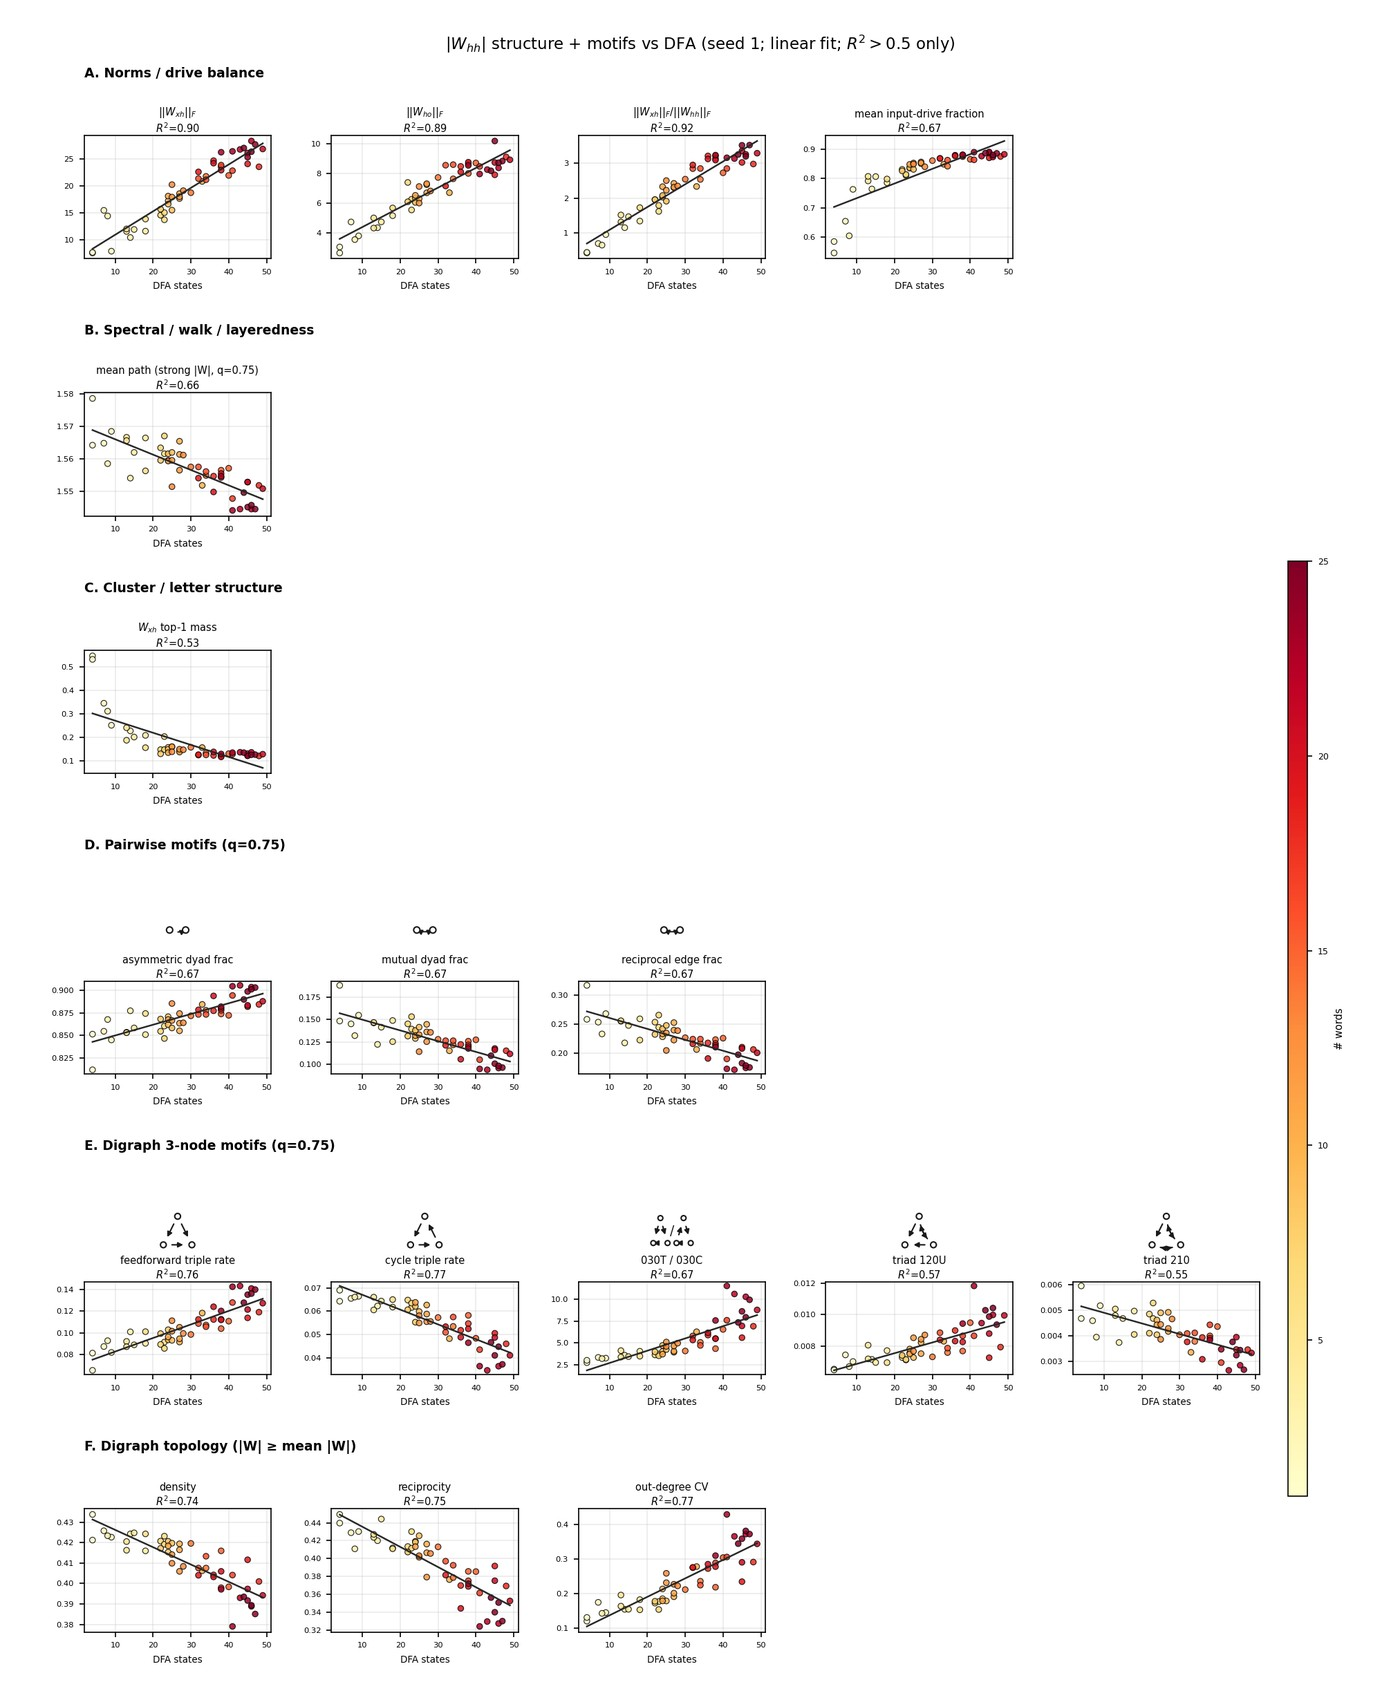
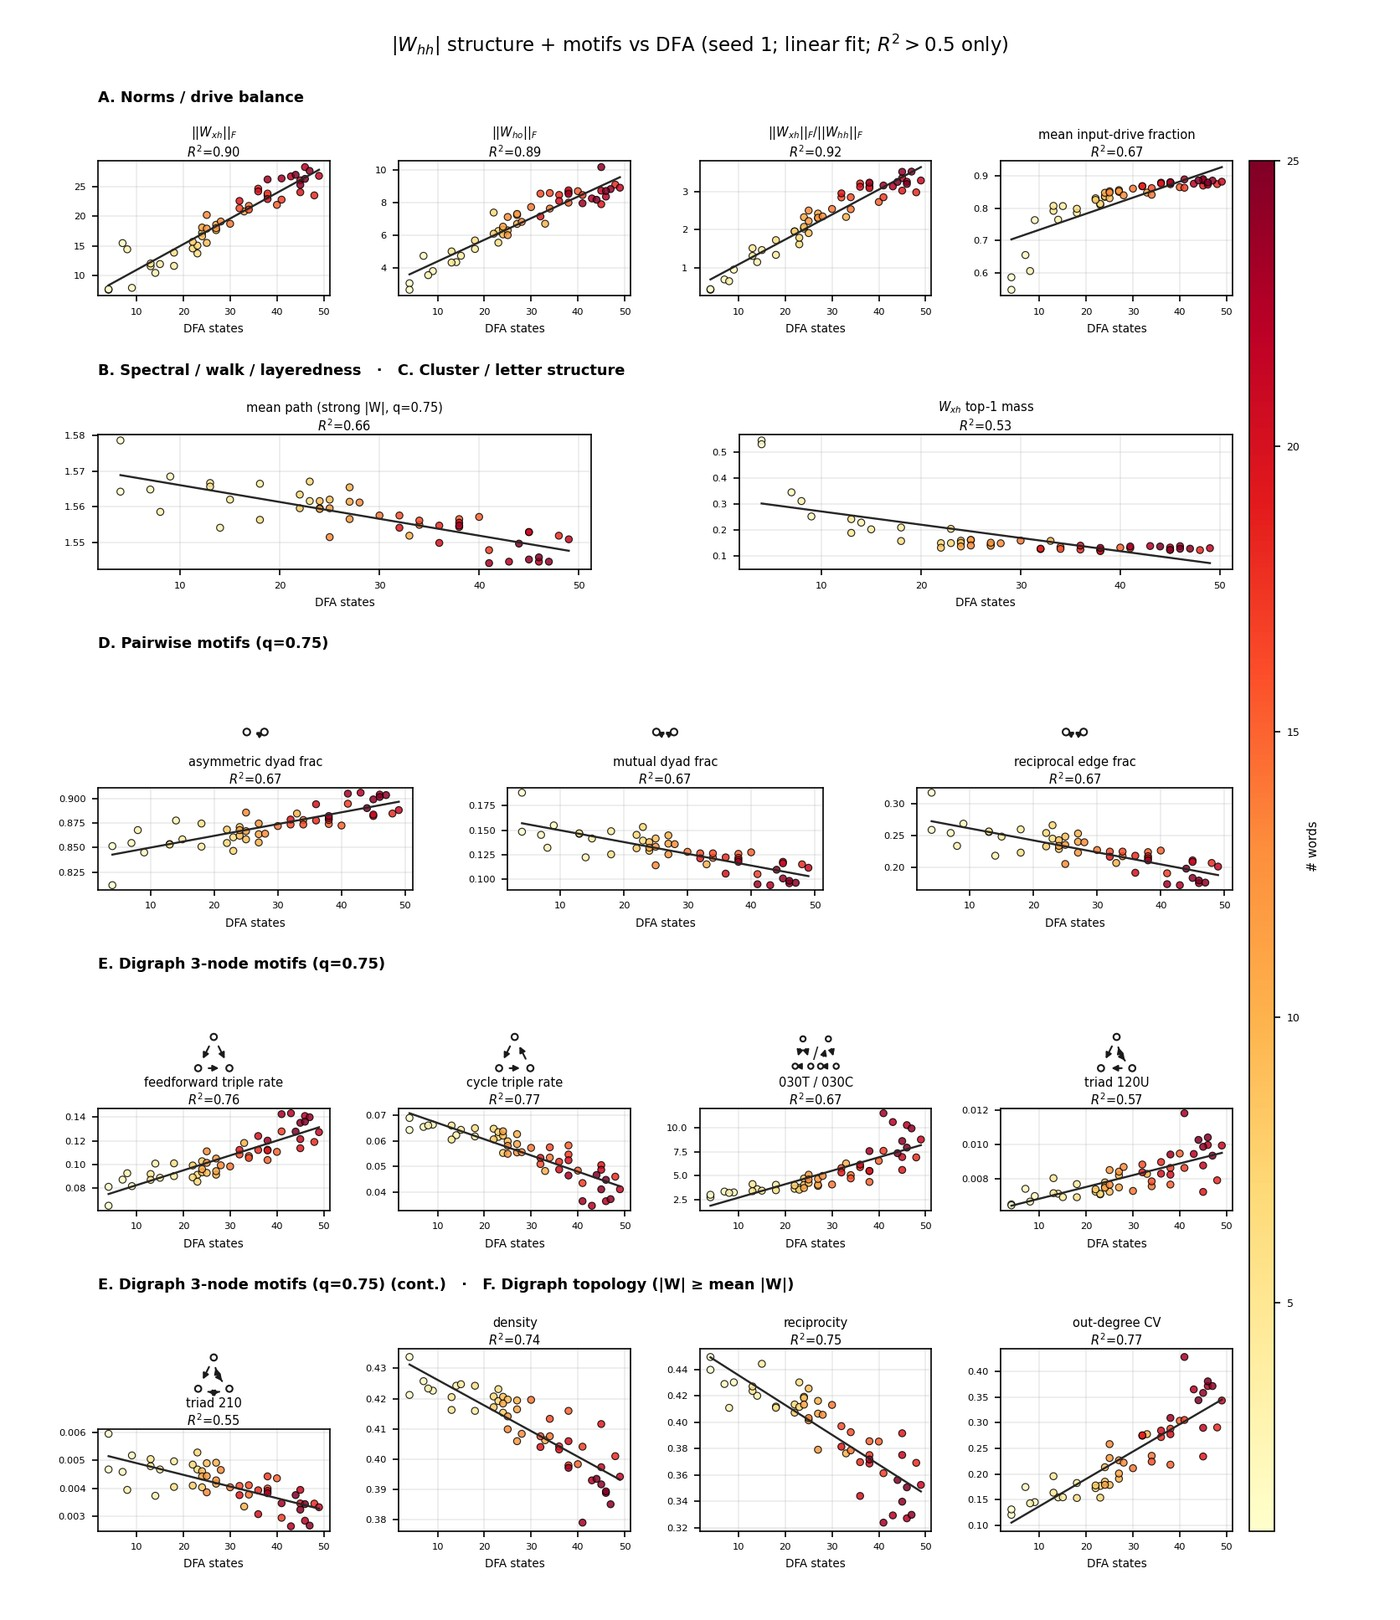
Fix Fig 18-19 layout: pack motif panels without blank cells and clear title overlap.

diff --git a/viz/compare/mixed_dfa_viz.py b/viz/compare/mixed_dfa_viz.py
@@ -1126,15 +1126,15 @@ def plot_mixed_dfa_weight_matrices_by_dfa(
         model = load_model_for_viz(str(checkpoint_path(task, model_type, seed=seed)), model_type)
         w_in_f, w_rec_f, _w_out_f, _dale = weights_for_plot(model)
         order_f = _cluster_unit_order(w_in_f, w_rec_f)
-        label = f"DFA={n_dfa}\n{n_words}w"
+        label = f"DFA={n_dfa} · {n_words}w"
         finals.append((label, w_in_f[order_f].T, w_rec_f[np.ix_(order_f, order_f)]))
 
     n_cols = 1 + len(finals)
     n_met = len(_WEIGHT_FIGURE_METRICS)
-    fig = plt.figure(figsize=(1.55 * n_cols + 0.85, 6.35))
+    fig = plt.figure(figsize=(1.55 * n_cols + 0.85, 6.75))
     outer = fig.add_gridspec(
-        2, 1, height_ratios=[2.55, 1.15], hspace=0.32,
-        left=0.08, right=0.90, top=0.93, bottom=0.07,
+        2, 1, height_ratios=[2.55, 1.15], hspace=0.28,
+        left=0.08, right=0.90, top=0.84, bottom=0.07,
     )
     gs_mat = outer[0].subgridspec(
         3, n_cols, height_ratios=[0.55, 1.0, 0.58], wspace=0.22, hspace=0.38,
@@ -1146,7 +1146,7 @@ def plot_mixed_dfa_weight_matrices_by_dfa(
 
     xh_panels = [init_xh] + [xh for _lab, xh, _hh in finals]
     hh_panels = [init_hh] + [hh for _lab, _xh, hh in finals]
-    col_titles = ["Init"] + [lab for lab, *_ in finals]
+    col_titles = ["Init"] + [lab.replace("\n", " · ") for lab, *_ in finals]
     row_panels = (xh_panels, hh_panels)
     row_ylabels = (r"$W_{xh}$", r"$W_{hh}$")
     # Avoid red/blue (reserved for signed weight heatmaps / E–I).
@@ -1165,7 +1165,7 @@ def plot_mixed_dfa_weight_matrices_by_dfa(
                 interpolation="nearest", origin="lower",
             )
             if row == 0:
-                ax.set_title(col_titles[col], fontsize=7, pad=6)
+                ax.set_title(col_titles[col], fontsize=6.5, pad=3)
             ax.text(
                 0.97, 0.97, f"±{vmax:.2g}",
                 transform=ax.transAxes, ha="right", va="top",
@@ -1287,7 +1287,7 @@ def plot_mixed_dfa_weight_matrices_by_dfa(
     fig.suptitle(
         rf"Weight structure by DFA size (seed {seed})",
         fontsize=10,
-        y=0.98,
+        y=0.97,
     )
     out = sweep_figures_dir(COMPARISON_NAME) / outfile
     save_figure(fig, out, dpi=150)
@@ -1544,49 +1544,68 @@ def plot_mixed_dfa_weight_graph_metrics_vs_dfa(
             return True
         return bool(np.isfinite(r2) and r2 > min_r2)
 
-    n_cols = 5
-    metric_rows: list[list[tuple[str, str, str]]] = []
-    banners_before: list[str | None] = []
+    n_wrap = 4
+    sections_kept: list[tuple[str, list[tuple[str, str, str]]]] = []
     for section_title, metrics in _WEIGHT_METRIC_SECTIONS:
         kept = [(bag, key, title) for bag, key, title in metrics if _keep(bag, key)]
-        if not kept:
-            continue
-        pending_banner: str | None = section_title
-        cur: list[tuple[str, str, str]] = []
-        for bag, key, title in kept:
-            cur.append((bag, key, title))
-            if len(cur) == n_cols:
-                metric_rows.append(cur)
-                banners_before.append(pending_banner)
-                cur = []
-                pending_banner = None
-        if cur:
-            metric_rows.append(cur)
-            banners_before.append(pending_banner)
+        if kept:
+            sections_kept.append((section_title, kept))
 
-    if not metric_rows:
+    if not sections_kept:
         raise ValueError(f"no weight-graph panels passed min_r2={min_r2}")
 
-    height_ratios: list[float] = []
-    gs_map: list[tuple[str, int]] = []
-    for i, banner in enumerate(banners_before):
-        if banner:
-            height_ratios.append(0.28)
-            gs_map.append(("banner", i))
-        # Extra height when this row has digraph-motif schematics above the scatter.
-        has_schema = any(
-            key in _MOTIF_SCHEMA_KEYS for _, key, _ in metric_rows[i]
-        )
-        height_ratios.append(1.35 if has_schema else 1.0)
-        gs_map.append(("metrics", i))
+    # Pack rows without empty cells: full n_wrap chunks stay alone; short
+    # leftovers from consecutive sections share a row when they fit.
+    # Each row_plan entry: ("banner", title) or ("metrics", (panels, has_schema)).
+    row_plan: list[tuple[str, Any]] = []
+    pending: list[tuple[str, list[tuple[str, str, str]]]] = []
 
-    n_banner = sum(1 for b in banners_before if b)
+    def _pending_n() -> int:
+        return sum(len(m) for _, m in pending)
+
+    def _flush_pending() -> None:
+        if not pending:
+            return
+        titles = "   ·   ".join(t for t, _ in pending if t)
+        panels = [p for _, mets in pending for p in mets]
+        has_schema = any(key in _MOTIF_SCHEMA_KEYS for _, key, _ in panels)
+        if titles:
+            row_plan.append(("banner", titles))
+        row_plan.append(("metrics", (panels, has_schema)))
+        pending.clear()
+
+    for section_title, kept in sections_kept:
+        n_full = len(kept) // n_wrap
+        rem = kept[n_full * n_wrap :]
+        if n_full:
+            _flush_pending()
+            row_plan.append(("banner", section_title))
+            for i in range(n_full):
+                chunk = kept[i * n_wrap : (i + 1) * n_wrap]
+                has_schema = any(key in _MOTIF_SCHEMA_KEYS for _, key, _ in chunk)
+                row_plan.append(("metrics", (chunk, has_schema)))
+            if rem:
+                pending.append((f"{section_title} (cont.)", rem))
+            continue
+        if _pending_n() + len(kept) <= n_wrap:
+            pending.append((section_title, kept))
+        else:
+            _flush_pending()
+            pending.append((section_title, kept))
+    _flush_pending()
+
+    height_ratios = [
+        0.28 if kind == "banner" else (1.35 if payload[1] else 1.0)
+        for kind, payload in row_plan
+    ]
+    n_metric_rows = sum(1 for kind, _ in row_plan if kind == "metrics")
+    n_banner = sum(1 for kind, _ in row_plan if kind == "banner")
     fig = plt.figure(
-        figsize=(2.5 * n_cols + 1.0, 2.15 * len(metric_rows) + 0.4 * n_banner + 1.1),
+        figsize=(2.55 * n_wrap + 0.95, 2.05 * n_metric_rows + 0.36 * n_banner + 0.85),
     )
     gs = fig.add_gridspec(
-        len(height_ratios), n_cols,
-        height_ratios=height_ratios, hspace=0.58, wspace=0.32,
+        len(height_ratios), 1,
+        height_ratios=height_ratios, hspace=0.50,
     )
 
     words_cmap = plt.get_cmap("YlOrRd")
@@ -1594,25 +1613,31 @@ def plot_mixed_dfa_weight_graph_metrics_vs_dfa(
 
     from viz.weight_structure import draw_digraph_motif_schema
 
-    for gs_i, (kind, row_i) in enumerate(gs_map):
+    scatter_axes: list[Any] = []
+    for gs_i, (kind, payload) in enumerate(row_plan):
         if kind == "banner":
-            axb = fig.add_subplot(gs[gs_i, :])
+            axb = fig.add_subplot(gs[gs_i, 0])
             axb.set_axis_off()
             axb.text(
-                0.0, 0.35, banners_before[int(row_i)],
-                fontsize=9, fontweight="bold", va="center",
+                0.0, 0.35, str(payload),
+                fontsize=8.5, fontweight="bold", va="center",
             )
             continue
-        metrics = metric_rows[int(row_i)]
+
+        metrics, _has_schema = payload
+        n_here = len(metrics)
+        # Panels fill the row (no spacer columns / blank axes).
+        inner = gs[gs_i, 0].subgridspec(1, n_here, wspace=0.30)
         for c, (bag, key, title) in enumerate(metrics):
-            cell = gs[gs_i, c]
+            cell = inner[0, c]
             if key in _MOTIF_SCHEMA_KEYS:
-                inner = cell.subgridspec(2, 1, height_ratios=[0.48, 1.0], hspace=0.42)
-                ax_schem = fig.add_subplot(inner[0])
-                ax = fig.add_subplot(inner[1])
+                nested = cell.subgridspec(2, 1, height_ratios=[0.48, 1.0], hspace=0.42)
+                ax_schem = fig.add_subplot(nested[0])
+                ax = fig.add_subplot(nested[1])
                 draw_digraph_motif_schema(ax_schem, key)
             else:
                 ax = fig.add_subplot(cell)
+            scatter_axes.append(ax)
             x, y, ns = _series(bag, key)
             if x.size:
                 ax.scatter(
@@ -1630,15 +1655,6 @@ def plot_mixed_dfa_weight_graph_metrics_vs_dfa(
             ax.set_xlabel("DFA states", fontsize=6.5)
             ax.grid(True, alpha=0.25)
             ax.tick_params(labelsize=5.5)
-        for c in range(len(metrics), n_cols):
-            fig.add_subplot(gs[gs_i, c]).set_axis_off()
-
-    cax = fig.add_axes([0.92, 0.12, 0.014, 0.55])
-    cbar = fig.colorbar(
-        plt.cm.ScalarMappable(cmap=words_cmap, norm=words_norm), cax=cax,
-    )
-    cbar.set_label("# words", fontsize=7)
-    cbar.ax.tick_params(labelsize=6)
 
     if linear_only and min_r2 is not None:
         subtitle = f"seed {seed}; linear fit; $R^2>{min_r2:g}$ only"
@@ -1651,13 +1667,23 @@ def plot_mixed_dfa_weight_graph_metrics_vs_dfa(
     finalize_grid_figure(
         fig,
         suptitle=f"$|W_{{hh}}|$ structure + motifs vs DFA ({subtitle})",
-        top=0.97,
-        bottom=0.04,
-        left=0.06,
-        right=0.90,
-        wspace=0.32,
-        hspace=0.55,
+        top=0.955,
+        bottom=0.055,
+        left=0.07,
+        right=0.88,
+        wspace=0.30,
+        hspace=0.50,
     )
+    if scatter_axes:
+        sm = plt.cm.ScalarMappable(cmap=words_cmap, norm=words_norm)
+        sm.set_array([])
+        x1 = max(ax.get_position().x1 for ax in scatter_axes)
+        y0 = min(ax.get_position().y0 for ax in scatter_axes)
+        y1 = max(ax.get_position().y1 for ax in scatter_axes)
+        cax = fig.add_axes([min(x1 + 0.012, 0.93), y0, 0.018, y1 - y0])
+        cbar = fig.colorbar(sm, cax=cax)
+        cbar.set_label("# words", fontsize=7)
+        cbar.ax.tick_params(labelsize=6)
     out = sweep_figures_dir(COMPARISON_NAME) / outfile
     save_figure(fig, out, dpi=150)
     plt.close(fig)
